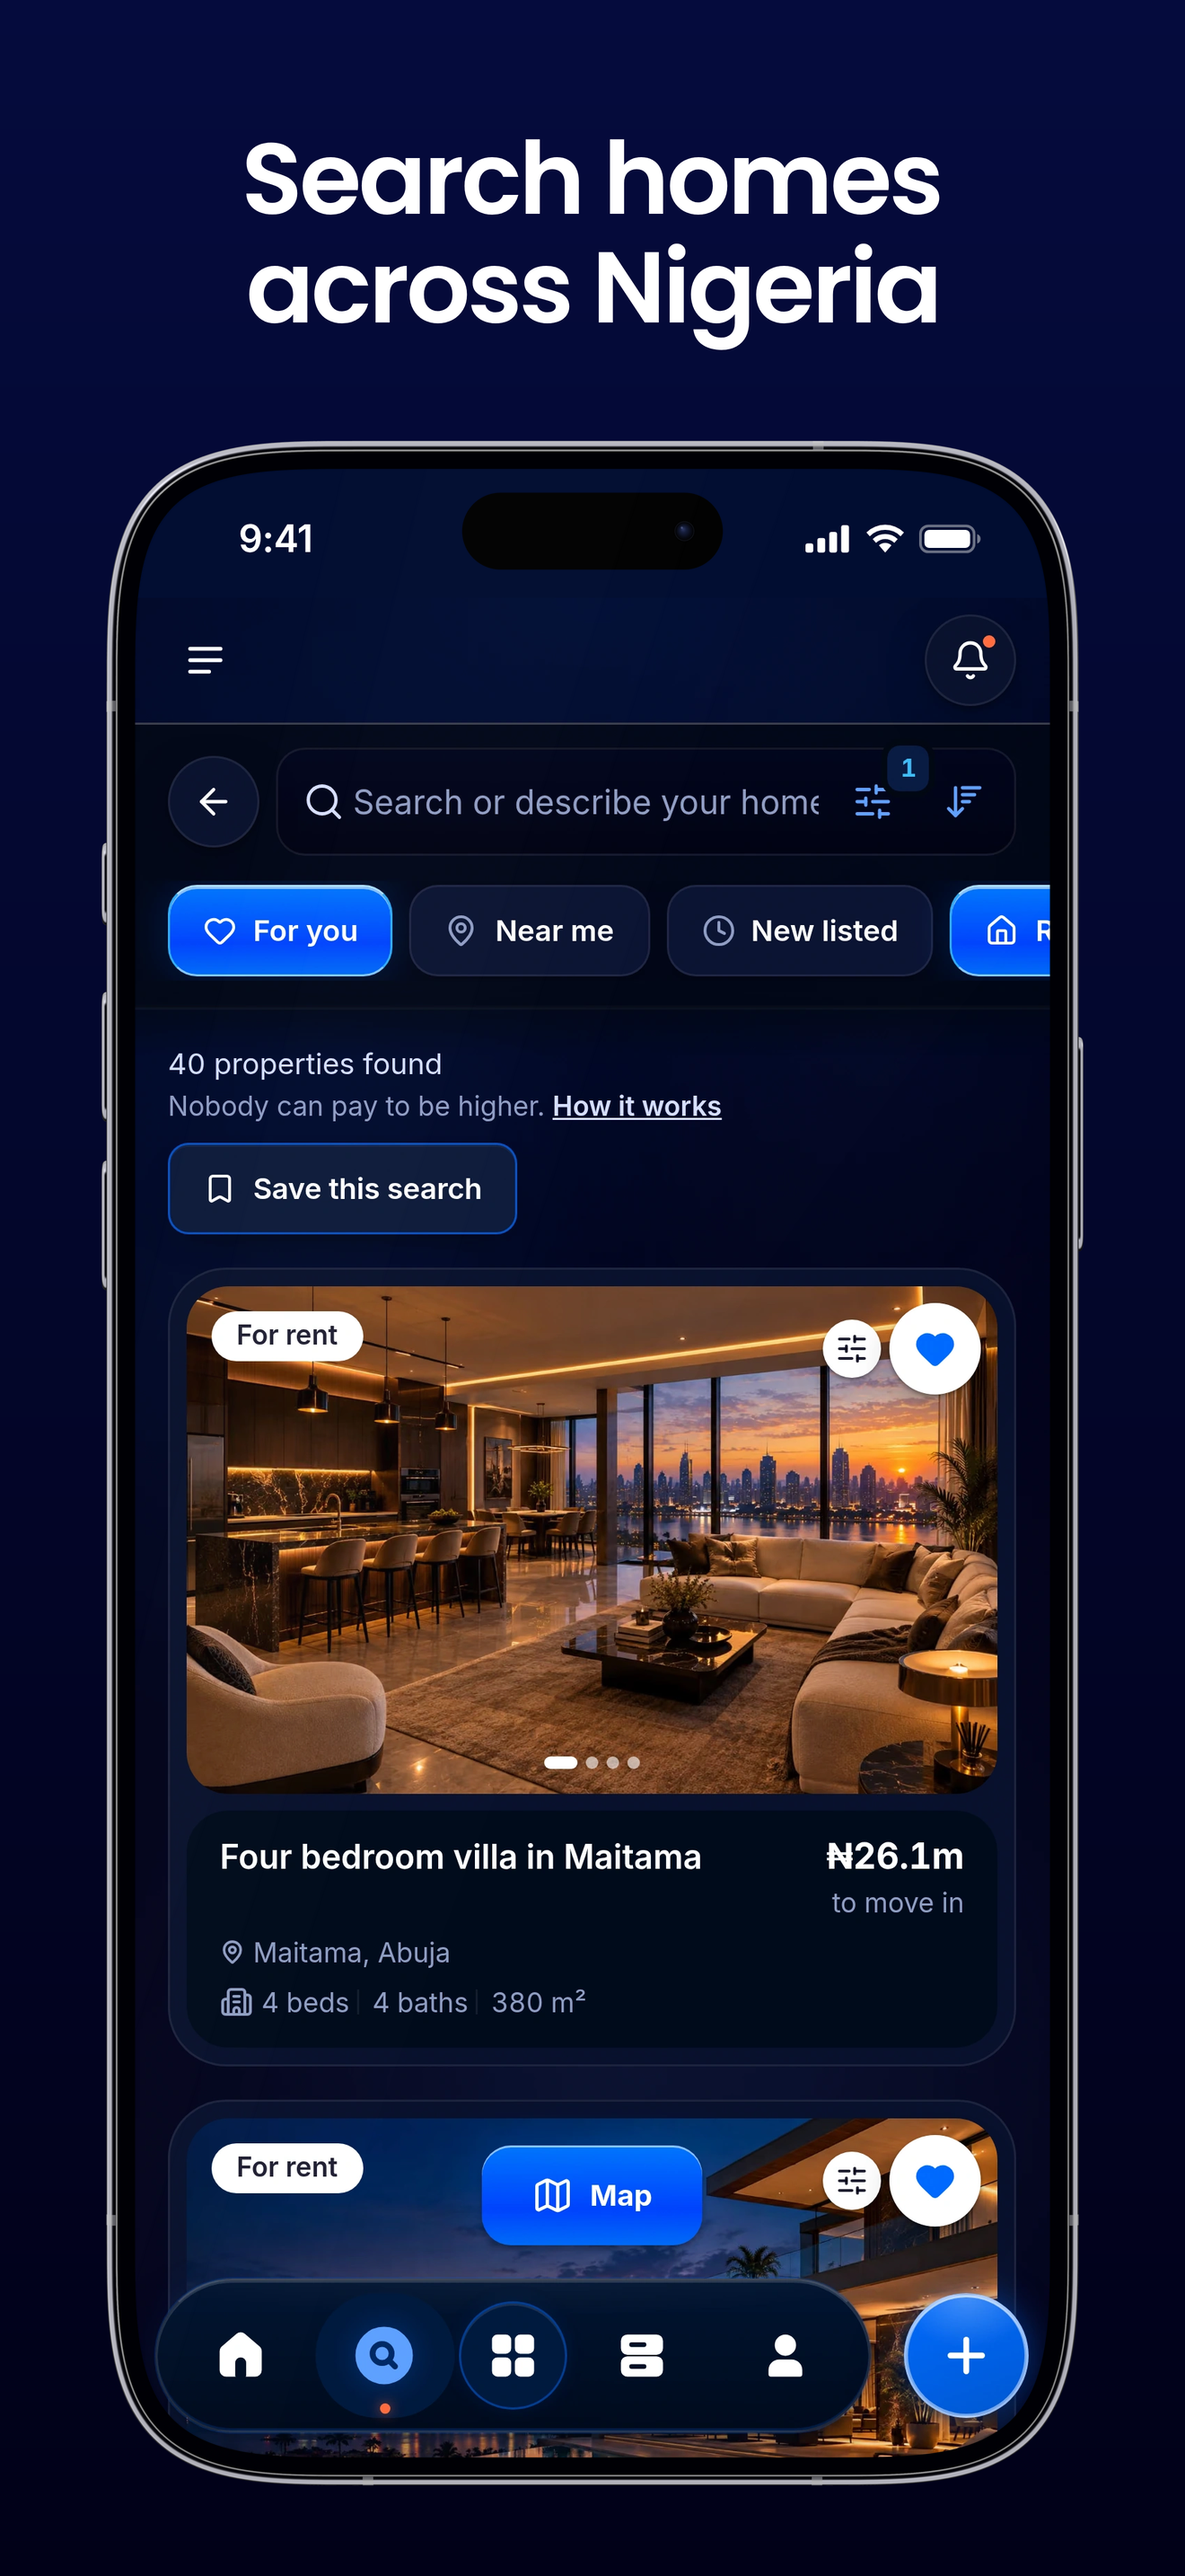
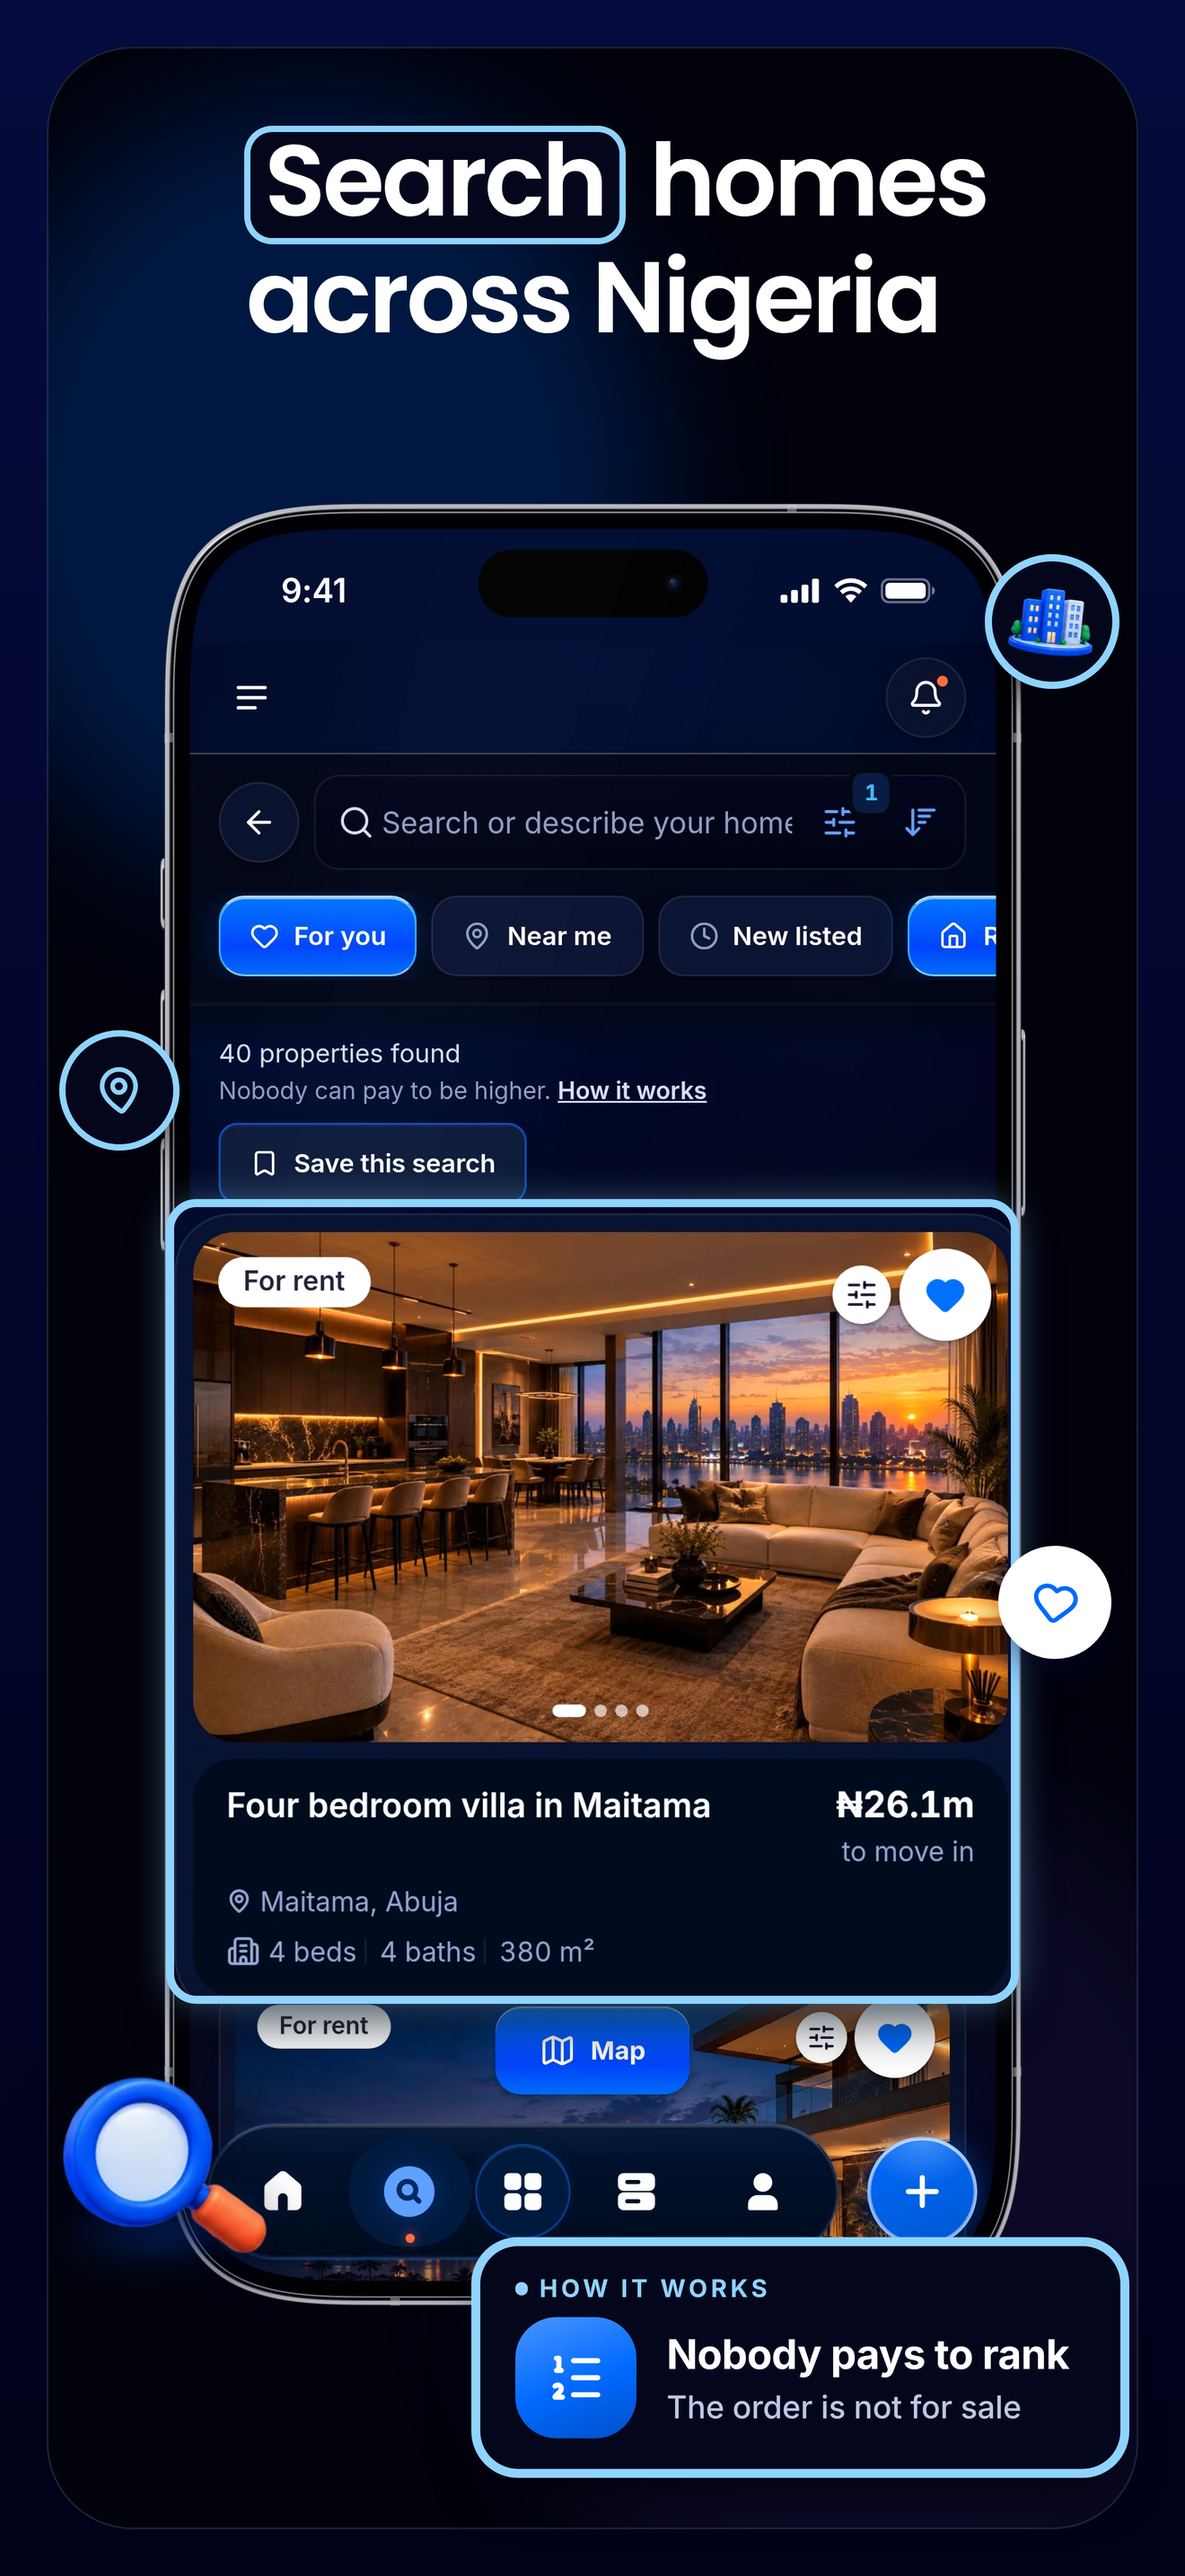
DESIGN.md: the pop-out container, and the ruling it supersedes
Section 3b records the 16 October brief and its two corrections, so the
handbook says what the set and the films are now built from rather than what
they were built from a fortnight ago. It also retires the 30 September ban on
the 3D objects in store images, which this brief asks for by name.

diff --git a/scripts/marketing/DESIGN.md b/scripts/marketing/DESIGN.md
@@ -47,6 +47,46 @@ A Nigerian app for homes, hotels, shortlets and restaurants, with one account: r
 - **Line icons:** `scripts/marketing/node_modules/lucide-static/icons/<name>.svg` (ISC) inside pills and pop-up cards.
 - **Do not use** the retired glass objects (`brand/glass/`) anywhere. (The earlier ban on `brand/3d/` is lifted by the founder's ruling above: the new 3D identity icons are welcome, mainly in the social campaign.)
 
+## 3b. The pop-out container (16 October 2026, the pump.fun blueprint)
+
+The founder sent five pump.fun App Store images as "a perfect blueprint" and
+asked for them in both the store set and the films. What those images do, and
+what Vallo does in answer. The parts are in
+`scripts/marketing/store/callouts.mjs` (stills) and
+`scripts/marketing/video/films/popout.js` (film), drawn from one description.
+
+- **The container is the product, not a card we drew.** pump.fun's floating
+  card is one row of their own app, lifted off the glass, blown up about 15
+  per cent, given a thick bright edge and dropped back over the place it came
+  from. So the first container in every image is `mags` (stills) or `lift` /
+  `windowLift` (films): a real component, at size, inside one heavy rule.
+  **Its box must sit on the component's own edges** — `films/blocks.py` reads
+  them off a capture — so nothing can ever be cut.
+- **A drawn container is the second one at most**, for what no screen shows in
+  one place: a total, a breakdown, a rule, a promise. Four contents: a line, a
+  stat, label/value cells on their own plate, a row of counters.
+- **Solid, and thick edged.** Solid ink, one heavy rule in the sky blue
+  (#8FD3FF), no hairline, no corner marks, nothing translucent, no fuzzy
+  glows. The founder's correction, the same day: "ours need to be black, thick
+  edges... make the things clean clear!!! Redo them all."
+- **The stage panel.** A solid black rounded field inset from the image's
+  edge, as the blueprint's is solid green, that the props and badges overhang.
+- **The round badges.** The blueprint's scattered coins: solid discs with the
+  same rule, carrying one of the brand's 3D objects, a line glyph or the Vallo
+  mark. Two to four per image, one white among them at most.
+- **The key word in a box.** One word of a headline may sit in a rounded box
+  instead of taking the sky colour (`keyStyle: "chip"`). It works on the first
+  line only: under a line with descenders it eats the line gap.
+- **The oversized outlined figure**, stroked not filled, beside a container,
+  for the one loud number.
+- **The 3D objects are welcome in the store images now.** The 30 September
+  ruling ("store images: none, except the two 'You got paid' images") is
+  superseded by this brief, which asks for them by name. The size rule holds:
+  never over about 260 px on a 1080-wide canvas.
+- **Copy rules are unchanged.** Section 2 governs every word in every
+  container: no invented numbers (a figure must be printed on the screen under
+  it), no testimonials, no promise words, "verified" only about people.
+
 ## 4. Pop-up cards (the "You got paid!" moments)
 
 Floating cards that overlap a phone's edge, like a notification that just arrived. Glass: white at 92% (on light) or navy `rgb(10 16 60 / .82)` with a 1.5 px `rgb(120 170 255 / .35)` edge (on dark), backdrop blur, radius 28–36 px, soft long shadow. An icon chip (Fluent sticker or lucide icon on a tinted circle), a bold title, one line under it, optional amount, optional "now". Only phrasing that describes what the product really does:
